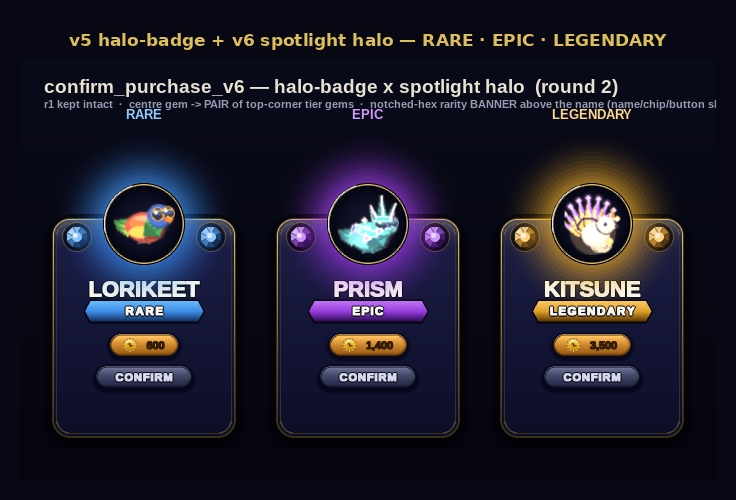
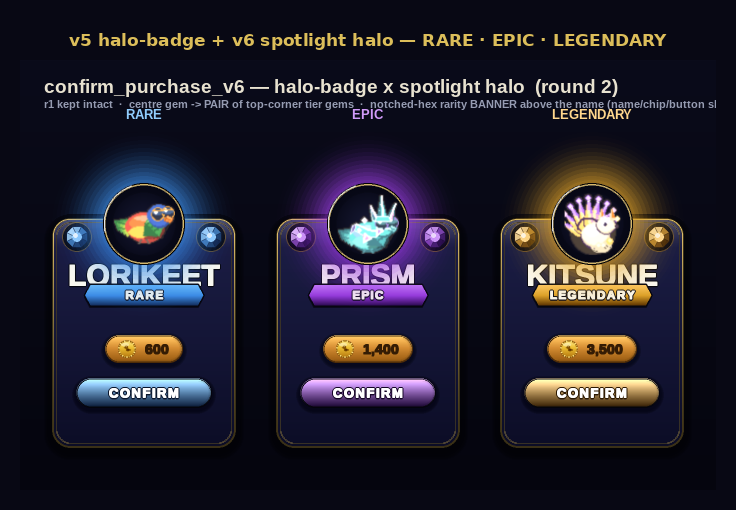
design: halo-badge-spotlight — name larger+higher, tier confirm button, bigger price chip

diff --git a/tools/_confirm_v6_halo_badge_spotlight_r2.py b/tools/_confirm_v6_halo_badge_spotlight_r2.py
@@ -69,14 +69,14 @@ TIERS = [
 # ── popup metrics (logical px, scaled from the v5 halo-badge pixel read) ───────
 # The card + popup grow by 28 px vs r1 so the NAME/CHIP/BUTTON can slide down to
 # make room for the rarity banner above the name without anything clipping.
-POP_W, POP_H = 200, 330
+POP_W, POP_H = 200, 340
 CX = POP_W // 2                                  # 100
 
 CARD_X   = 8
 CARD_W   = POP_W - CARD_X * 2                    # 184
 CARD_TOP = 98
-CARD_H   = 220
-CARD_BOT = CARD_TOP + CARD_H                     # 318
+CARD_H   = 230
+CARD_BOT = CARD_TOP + CARD_H                     # 328
 CARD_RAD = 18
 
 # Overhanging cabochon disc: ~44% overhangs; centre ~6 px below card top.
@@ -87,17 +87,20 @@ DISC_BOT = DISC_CY + R_HERO                       # 145
 # Tier gem PAIR — pulled inward from card corners.
 GEM_R    = 11
 GEM_CY   = CARD_TOP + GEM_R + 8                   # 117
-GEM_L_X  = CARD_X + GEM_R + 14                    # 33  (was 23, +10 inward)
-GEM_R_X  = POP_W - CARD_X - GEM_R - 14            # 167 (was 177, -10 inward)
+GEM_L_X  = CARD_X + GEM_R + 14                    # 33
+GEM_R_X  = POP_W - CARD_X - GEM_R - 14            # 167
 
-# Caption plate — name (large) sits above the rarity banner.
-NAME_FS  = 22                                     # much larger than r1's 14
-Y_NAME   = DISC_BOT + 24                          # 169
-Y_BANNER = Y_NAME + 22                            # 191
-Y_CHIP   = Y_BANNER + 34                          # 225
-Y_BTN    = Y_CHIP + 32                            # 257
+# Caption plate — large name high up, banner below it, chip+button lower/larger.
+NAME_FS  = 30
+Y_NAME   = DISC_BOT + 10                          # 155 — tight under disc
+Y_BANNER = Y_NAME + 20                            # 175
+Y_CHIP   = Y_BANNER + 54                          # 229 — pushed lower
+Y_BTN    = Y_CHIP   + 44                          # 273 — pushed lower
 BANNER_W = 120
 BANNER_H = 22
+CHIP_H   = 28                                     # larger price chip
+BTN_H    = 30                                     # larger confirm button
+BTN_W    = 136                                    # wider confirm button
 
 
 # ── spotlight-marquee halo (transplanted verbatim) ────────────────────────────
@@ -181,16 +184,18 @@ def _card_body(big):
 
 
 def _confirm_button(big, pal):
-    """Dark indigo-lavender action pill with light 'CONFIRM' text — the v5
-    badge's caption-plate button (light glyphs on a dark ground, subtle rim)."""
-    h = m(22)
-    w = m(96)
+    """Tier-coloured confirm pill — vibrant gradient using the tier gem/glow so
+    it feels like the action belongs to the item being purchased."""
+    h = m(BTN_H)
+    w = m(BTN_W)
     r = pygame.Rect(m(CX) - w // 2, m(Y_BTN) - h // 2, w, h)
-    chip_body(big, r, h // 2, (72, 76, 112), (36, 38, 68),
-              (10, 12, 26), (150, 156, 192), gloss=54)
-    plain_text(big, "CONFIRM", font(11), r.center, (214, 216, 236),
-               shadow_a=150, tracking=m(1.2), weight=m(0.9),
-               keyline=(10, 12, 26), kw=m(0.9))
+    top_c = lerp_color(pal["gem"], WHITE, 0.18)
+    bot_c = lerp_color(pal["deep"], (4, 4, 12), 0.4)
+    rim_c = lerp_color(pal["gem"], WHITE, 0.45)
+    chip_body(big, r, h // 2, top_c, bot_c, (4, 4, 12), rim_c, gloss=72)
+    plain_text(big, "CONFIRM", font(13), r.center, (255, 255, 255),
+               shadow_a=180, tracking=m(1.4), weight=m(1.0),
+               keyline=lerp_color(pal["deep"], (0, 0, 0), 0.5), kw=m(1.0))
 
 
 def _hero_disc(big, sid, pal):
@@ -216,7 +221,7 @@ def render_popup(tier_word, sid, price, pal):
     plain_text(big, name, font(NAME_FS), (m(CX), m(Y_NAME)), (250, 248, 240),
                shadow_a=160, weight=m(0.9), keyline=(6, 6, 16), kw=m(1.0))
     _tier_banner(big, CX, Y_BANNER, BANNER_W, BANNER_H, tier_word, pal)
-    price_chip(big, m(CX), m(Y_CHIP), f"{price:,}", m(22), affordable=True)
+    price_chip(big, m(CX), m(Y_CHIP), f"{price:,}", m(CHIP_H), affordable=True)
     _confirm_button(big, pal)
     _hero_disc(big, sid, pal)
     return pygame.transform.smoothscale(big, (POP_W, POP_H))
